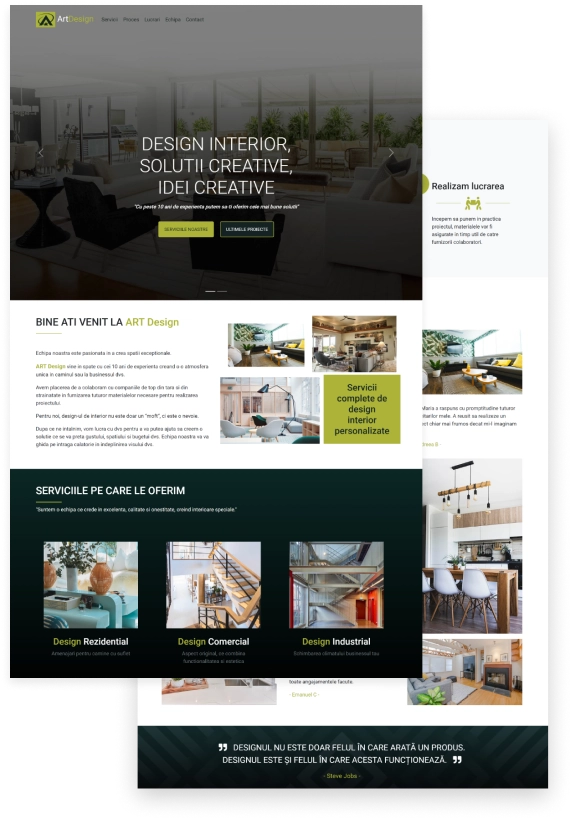
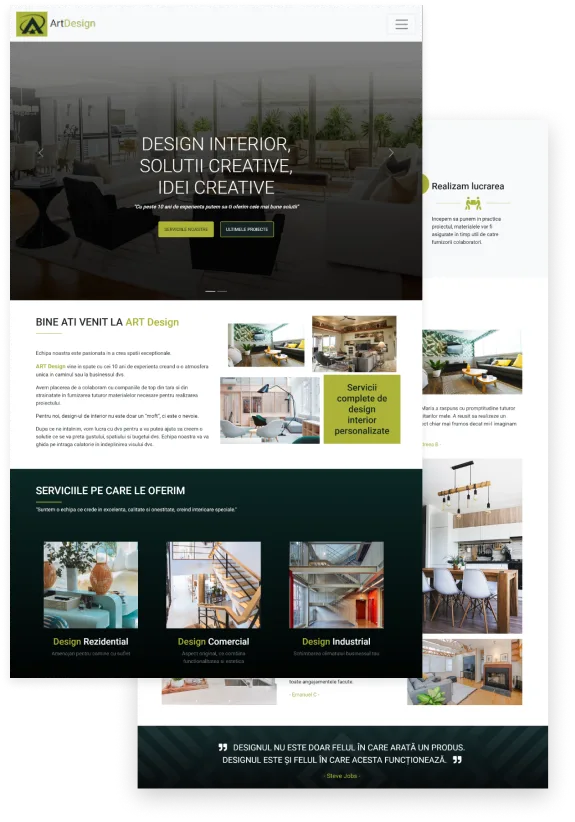
update artdesign pictures

Changed region(s): [[0.0, 0.0, 0.7391, 0.0608]]

diff --git a/index.html b/index.html
@@ -489,7 +489,7 @@
                                 </p>
 
                                 <p class="text-description">
-                                    Performance validation (Google Lighthouse) it is almost 100.
+                                    Performance validation (Google Lighthouse) is almost 100.
                                 </p>
                                 <p class="text-description">
                                     The UI design is partially inspired by another source.
@@ -537,7 +537,7 @@
                                 <ul class="project-tools">
                                     <li class="project-tool">HTML</li>
                                     <li class="project-tool">CSS</li>
-                                    <li class="project-tool">JS/JQuery</li>
+                                    <li class="project-tool">JS</li>
                                     <li class="project-tool">Bootstrap</li>
                                     <li class="project-tool"><span>Responsive</span></li>
                                     <li class="project-tool"><span>UI Design</span></li>
@@ -550,20 +550,19 @@
                                     The webpage is built with semantic HTML5 and Bootstrap 5.
                                 </p>
                                 <p class="text-description">
-                                    The first part of the page is
-                                    a full height carousel hero image from the Bootstrap 5 gallery.
+                                    The first part of the page is a full-height carousel hero image from the Bootstrap 5
+                                    gallery.
 
                                 </p>
                                 <p class="text-description">
-                                    In the main part the icons are part of the Font Awesome gallery, all the transition
-                                    effects are implemented with the Animated On Scroll Library (AOS),
-                                    and the hover one’s with CSS3.
+                                    In the main part, the icons are part of the Font Awesome gallery, all the transition
+                                    effects are implemented with the Animated On Scroll Library (AOS), and the hover
+                                    ones with CSS3.
 
                                 </p>
                                 <p class="text-description">
                                     From the tablet size, the navigation menu switches to a hamburger icon from the
-                                    Tasty
-                                    CSS-animated hamburgers library.
+                                    Tasty CSS-animated hamburgers library.
                                 </p>
 
                                 <div class="project-sources">
@@ -607,7 +606,6 @@
             <section class="social-media-info mb-bg">
                 <div class="footer-text-box">
 
-                    <!-- <span class="project-tool "><span>Get in touch</span></span> -->
                     <section class="footer-comment-box">
                         <img srcset="images/testimonial-img.webp" src="images/testimonial-img.png"
                             alt="testimonial photo" class="footer-comment-img" width="80" height="80">

diff --git a/css/queries.css b/css/queries.css
@@ -301,7 +301,7 @@
   }
 
   .hero-image {
-    max-width: 70%;
+    max-width: 60%;
   }
 
   .hero-text {
@@ -448,7 +448,7 @@
   }
 
   .hero-image {
-    max-width: 100%;
+    max-width: 75%;
   }
 
   .hero-text-name {
@@ -556,6 +556,10 @@
 
   .heading-secondary {
     font-size: 3.4rem;
+  }
+
+  .hero-image {
+    max-width: 90%;
   }
 
   .hero-buttons {
